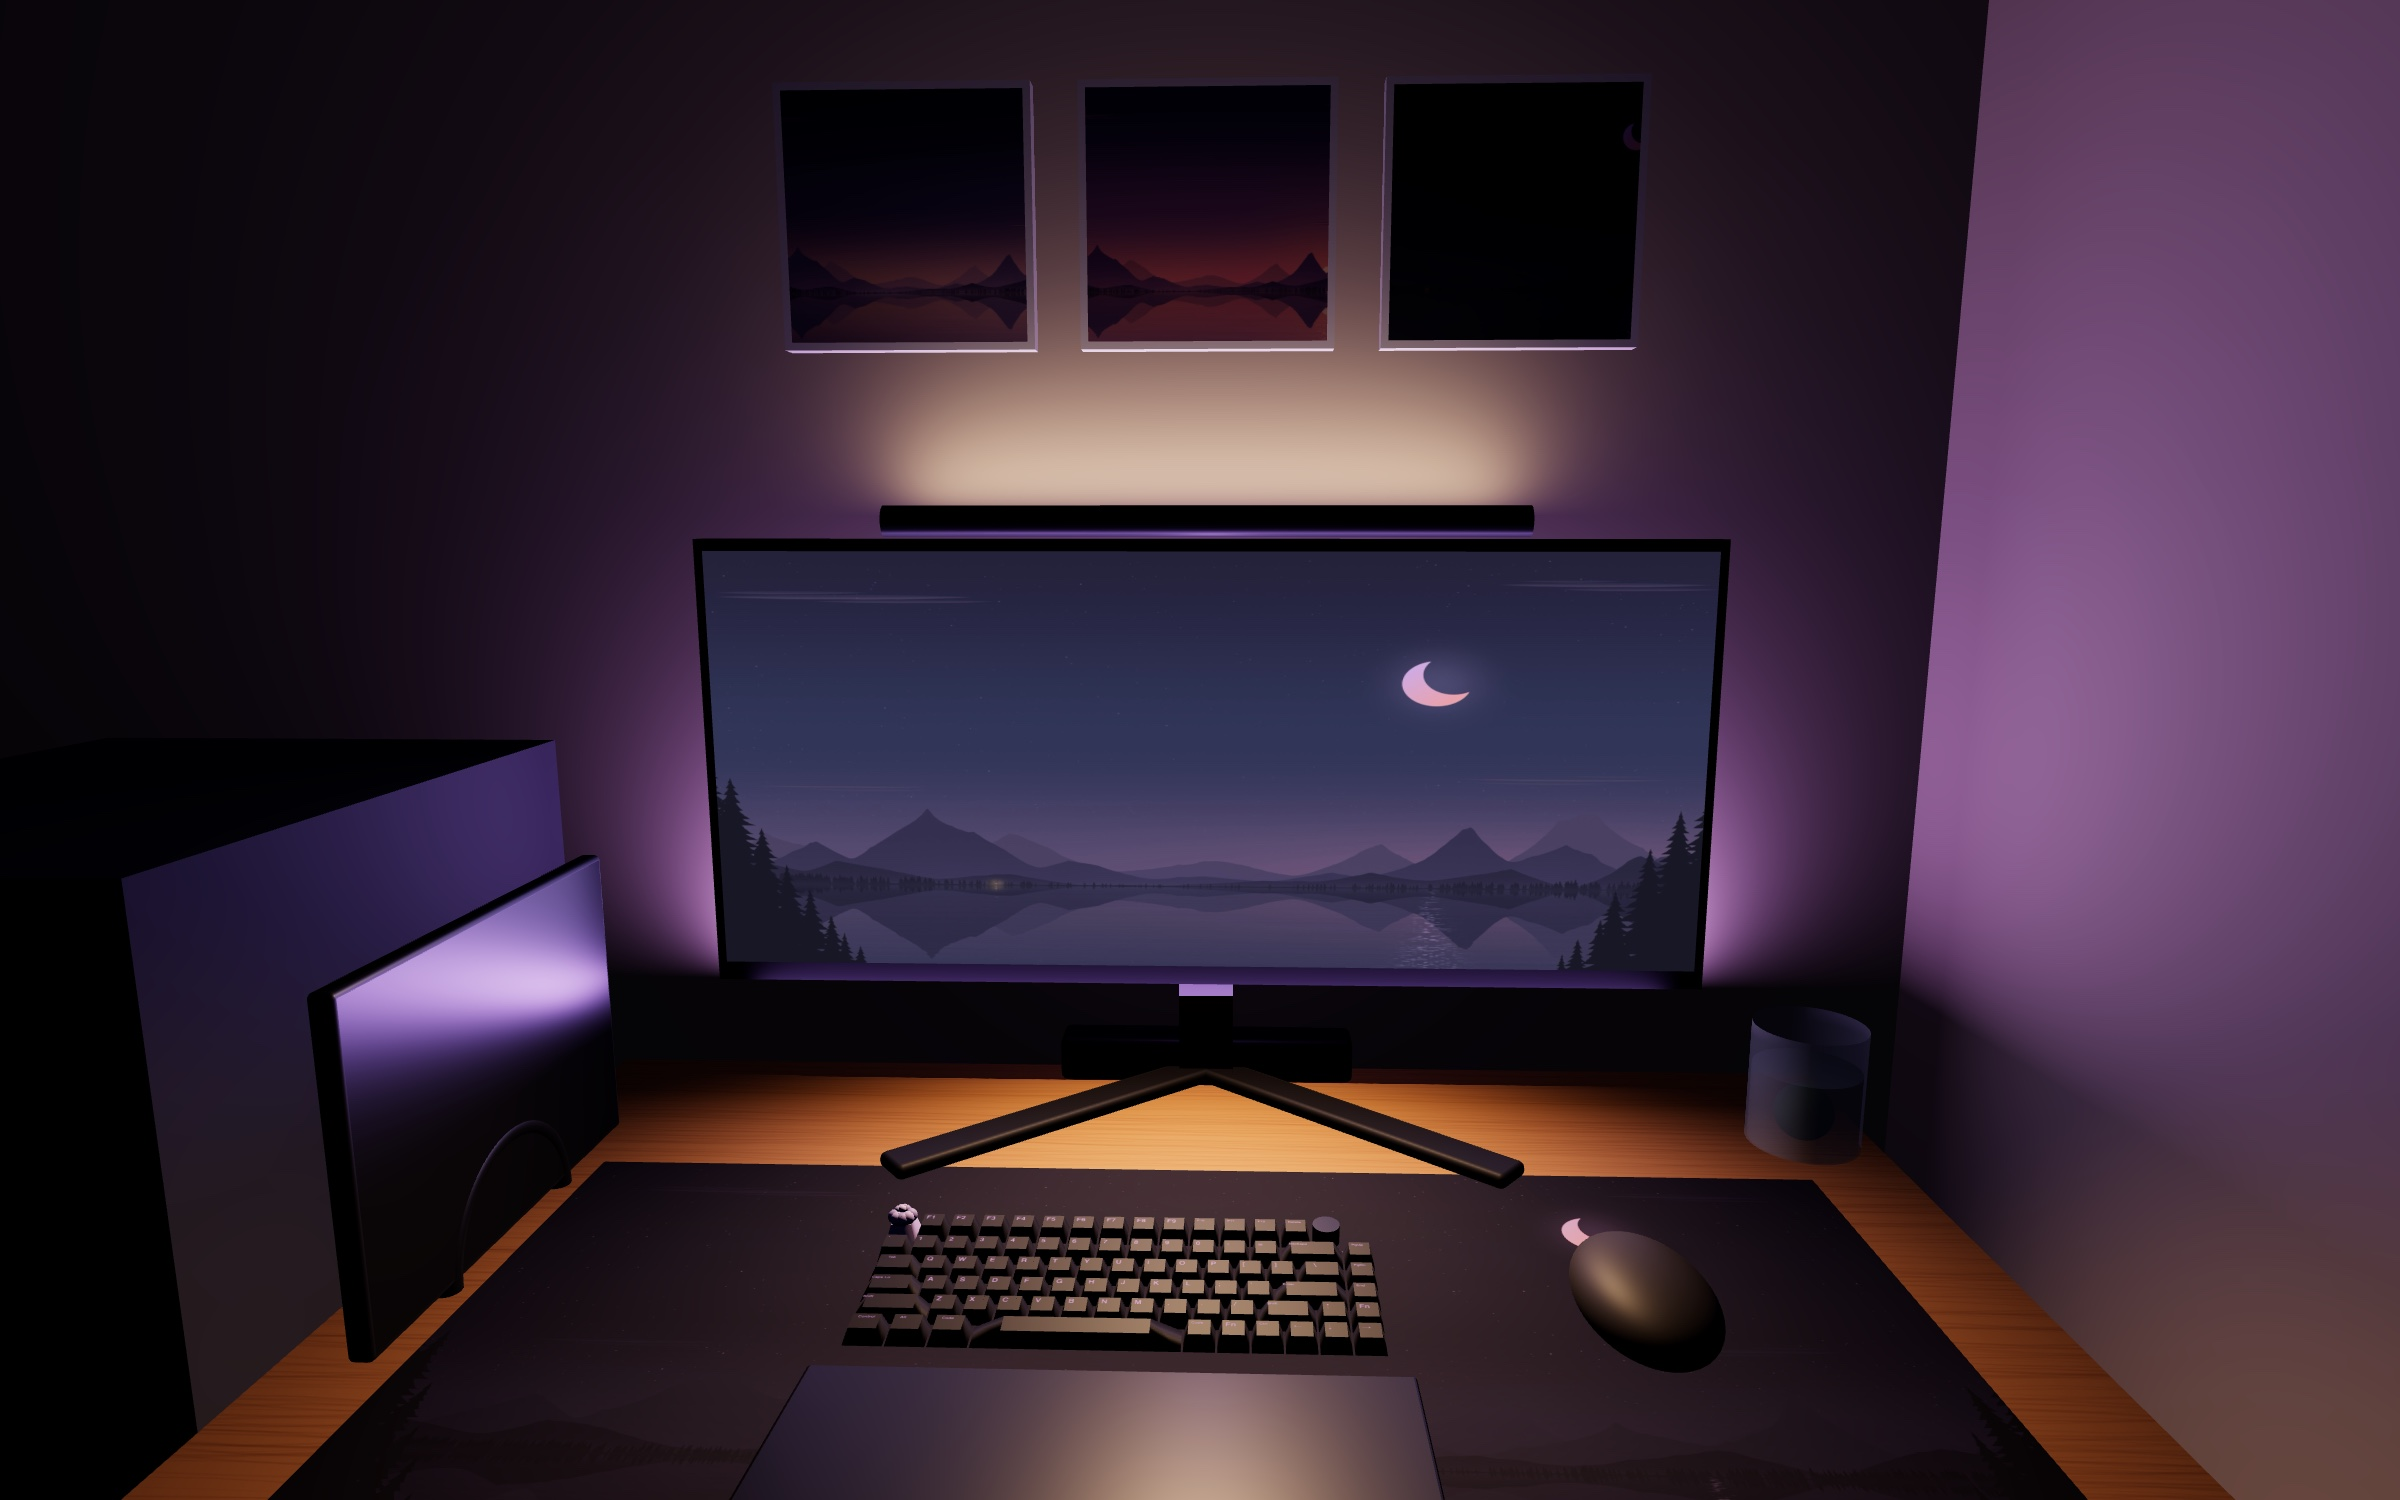
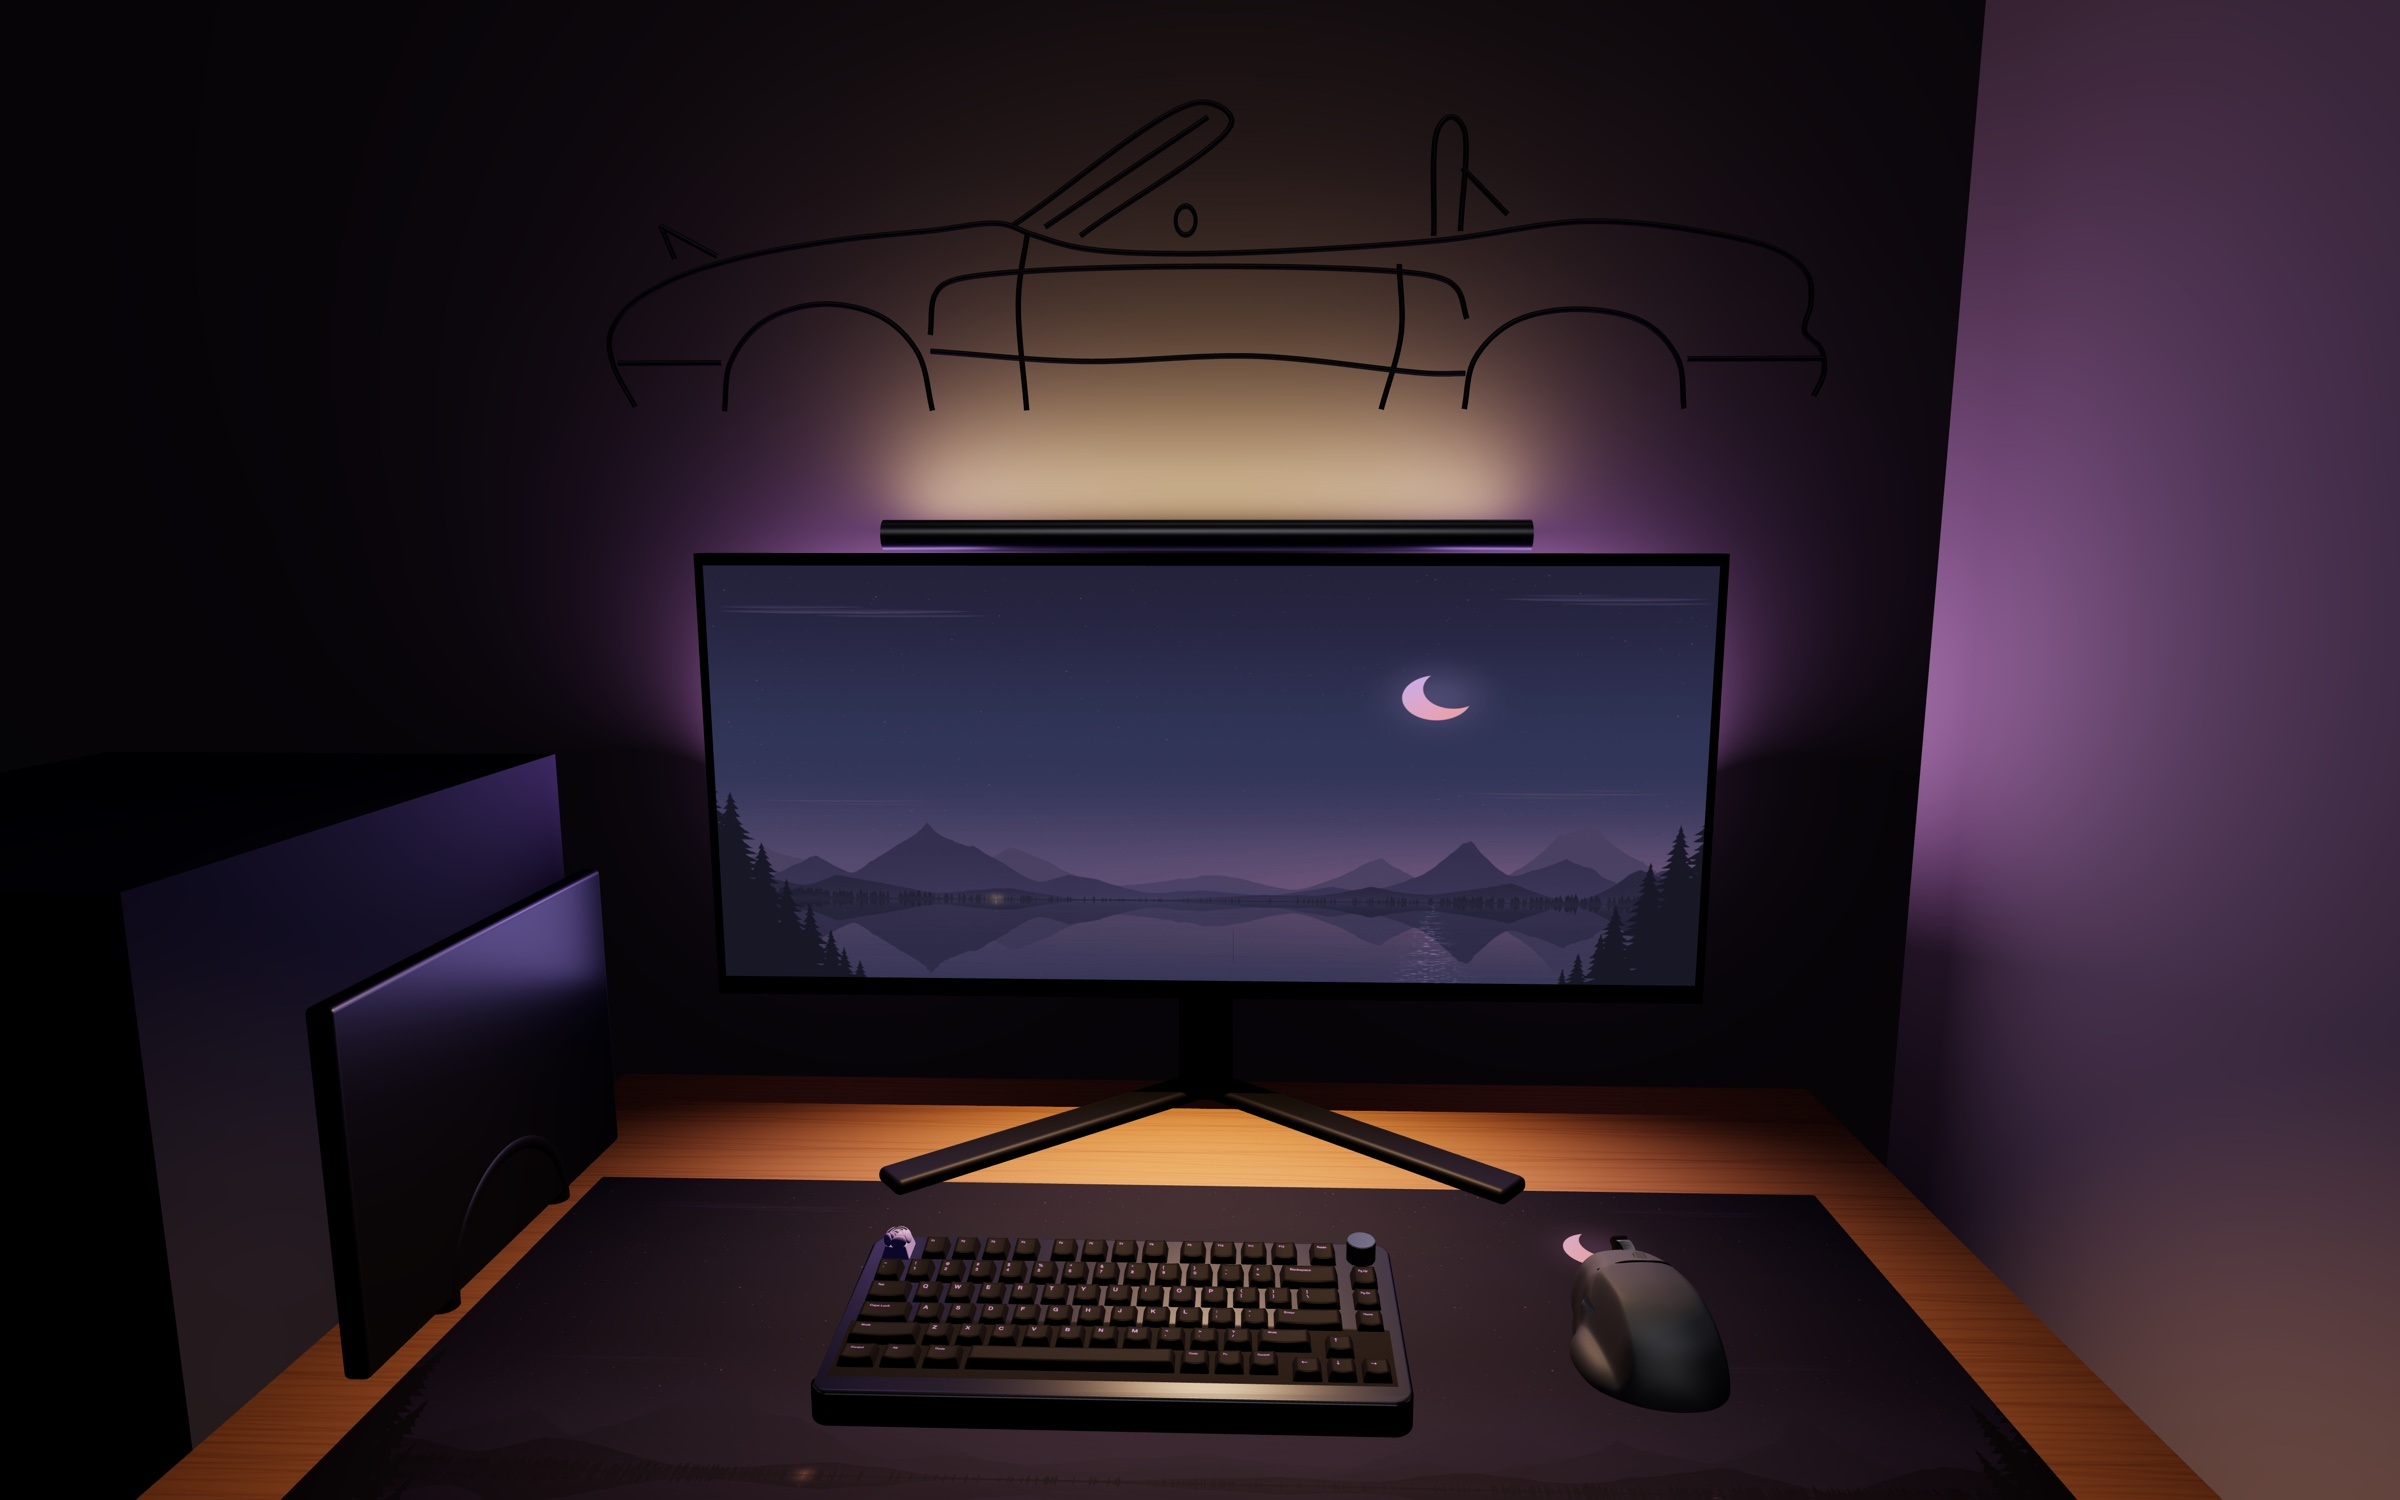
Lilac Moon site: renders of the real desk, a detailed keyboard and mouse, and a close-up

diff --git a/docs/index.html b/docs/index.html
@@ -78,7 +78,7 @@ footer { color: var(--muted); font-size: 14px; border-top: 1px solid var(--line)
 <div class="wrap">
   <div class="cover">
     <div class="cover-title"><h1>Lilac <em>Moon</em></h1><span class="kicker">Noah's setup · desk, screen, sound</span></div>
-    <div class="scene"><img src="desk-full-vision.jpg" alt="The full Lilac Moon desk at night, from the chair: a 34-inch ultrawide showing a moonlit pine lake, a lilac glow on the wall around it, a warm light bar lighting the desk and three moon prints above, and on the pine desk a black keyboard with purple legends and a lavender rose on Escape, a beech wrist rest and a starry lake desk mat" style="display:block;width:100%;height:auto"></div>
+    <div class="scene"><img src="desk-full-vision.jpg" alt="The full Lilac Moon desk at night, from the chair: a 34-inch ultrawide showing a moonlit pine lake, a lilac glow on the wall around it, a warm light bar lighting the desk and a wire Miata on the wall above, and on the pine desk a black keyboard with purple legends and a lavender rose on Escape, a graphite mouse and a starry lake desk mat" style="display:block;width:100%;height:auto"></div>
     <p class="lede">One theme across everything I touch: Rosé Pine Moon, made my own. A deep purple-grey ground, soft lilac-grey text, lavender for what's mine, rose for warmth, and a crescent moon that shows up on the screen, the desk and the wall.</p>
   </div>
 
@@ -126,20 +126,21 @@ footer { color: var(--muted); font-size: 14px; border-top: 1px solid var(--line)
         <div class="item"><div><b>GMK CYL Purple on Black</b><p>Black keycaps with purple legends: the terminal, in keys. Made in Germany.</p></div><span class="price"><a href="https://www.gmk.net/shop/en/glarses-x-gmk-cyl-pob-purple-on-black-keycaps/fptk5114">$100.66</a></span></div>
         <div class="item"><div><b>Capsmiths Lavender Rose</b><p>A lavender resin rose on Esc: the one lilac key.</p></div><span class="price"><a href="https://1upkeyboards.com/shop/keycaps/keycaps-keycaps/artisans/capsmiths-artisan-keycap-lavender-rose/">$25</a></span></div>
         <div class="item"><div><b>Lilac Moon desk mat, 90 × 40 cm</b><p>Stitched edges; its back edge slides just under the monitor stand's feet.</p></div><span class="price"><a href="https://deskmat.io/upload">$39</a></span></div>
-        <div class="item"><div><b>NuPhy Twotone wrist rest, beech</b><p>Light wood to match the pine desk.</p></div><span class="price"><a href="https://nuphy.com/products/twotone-wrist-rest-65-75">$34</a></span></div>
+        <div class="item"><div><b>Logitech MX Master 3, Graphite</b><p>Already mine. It sits on the moon.</p></div><span class="price">owned</span></div>
         <div class="item"><div><b>Twelve South BookArc, Space Grey</b><p>The MacBook stands up beside the monitor, with Insert H for the 14".</p></div><span class="price"><a href="https://www.twelvesouth.com/products/bookarc-space-grey-macbook-pro">$19.98</a></span></div>
       </div>
     </div>
+    <figure><img src="desk-detail.jpg" alt="Close up from above: the black Keychron with purple GMK legends, a knurled knob and a lavender resin rose on Escape, and the graphite MX Master 3 beside the crescent moon on the lake desk mat" style="width:100%;border-radius:14px;border:1px solid var(--line)"><figcaption>Closer. Every key is where the Q1's 75% layout puts it, sculpted row by row like the real caps.</figcaption></figure>
   </section>
 
   <section>
     <h2>The room</h2>
-    <figure><img src="desk-full-vision-above.jpg" alt="The same desk from above and to the right: the lilac wall glow, the warm pool of the light bar on the pine, the keyboard, wrist rest and mouse on the lake desk mat, the MacBook in its stand and a marimo jar" style="width:100%;border-radius:14px;border:1px solid var(--line)"><figcaption>From above. Rendered to scale from photos of the real desk: real sizes, real light.</figcaption></figure>
+    <figure><img src="desk-full-vision-above.jpg" alt="The same desk from above and to the right: the lilac wall glow, the warm pool of the light bar on the pine, the keyboard and mouse on the lake desk mat, and the MacBook in its stand" style="width:100%;border-radius:14px;border:1px solid var(--line)"><figcaption>From above. Rendered to scale from photos of the real desk: real sizes, real light.</figcaption></figure>
     <div class="list">
-      <div class="item"><div><b>BenQ ScreenBar Halo 2</b><p>Warm light on the desk, about 2700 K, and its rear backlight washing the wall above the monitor, which is what lights the prints.</p></div><span class="price"><a href="https://www.amazon.com/dp/B0DK59YKRS">≈ $179</a></span></div>
-      <div class="item"><div><b>Hue Play light bar</b><p>Behind the monitor: a lilac glow up the wall and around the screen.</p></div><span class="price"><a href="https://www.philips-hue.com/en-us/p/hue-white-and-color-ambiance-play-light-bar-single-pack/7820130U7">$98.99</a></span></div>
-      <div class="item"><div><b>Moon triptych</b><p>Dawn, sunset and night from the dynamic wallpaper: three 8-inch tiles hung 15 cm above the monitor.</p></div><span class="price"><a href="https://create.mixtiles.com/personal-photo-tiles">≈ $60</a></span></div>
-      <div class="item"><div><b>A marimo moss ball</b><p>A tiny green orb in a glass jar, in the back-right corner.</p></div><span class="price">≈ $10</span></div>
+      <div class="item"><div><b>BenQ ScreenBar Halo 2</b><p>Warm light on the desk, about 2700 K, and its rear backlight washing the wall above the monitor, which is what lights the Miata.</p></div><span class="price"><a href="https://www.amazon.com/dp/B0DK59YKRS">$199</a></span></div>
+      <div class="item"><div><b>Hue Play starter kit</b><p>Two light bars on the back of the monitor, one near each end, and the Bridge: a lilac glow up the wall and around the screen.</p></div><span class="price">$244.99</span></div>
+      <div class="item"><div><b>The Miata</b><p>Wire art I already had, re-centered over the monitor where the Halo's backlight catches it.</p></div><span class="price">owned</span></div>
+      <div class="item"><div><b>Moon triptych</b><p>Dawn, sunset and night from the dynamic wallpaper: three 8-inch tiles over the bed.</p></div><span class="price"><a href="https://create.mixtiles.com/personal-photo-tiles">$63.75</a></span></div>
     </div>
   </section>
 
